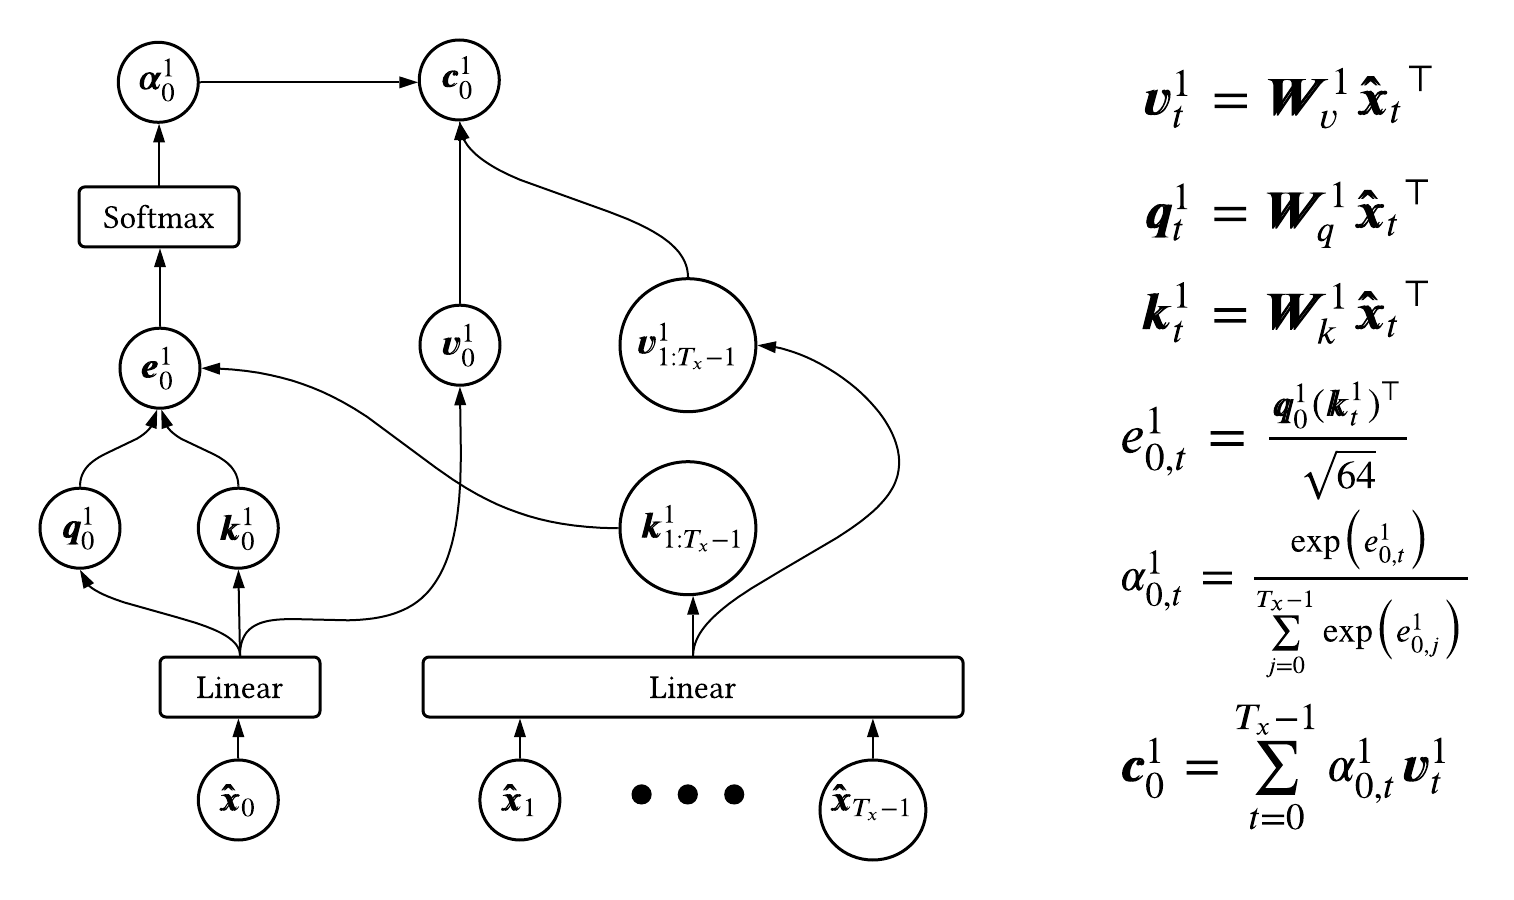
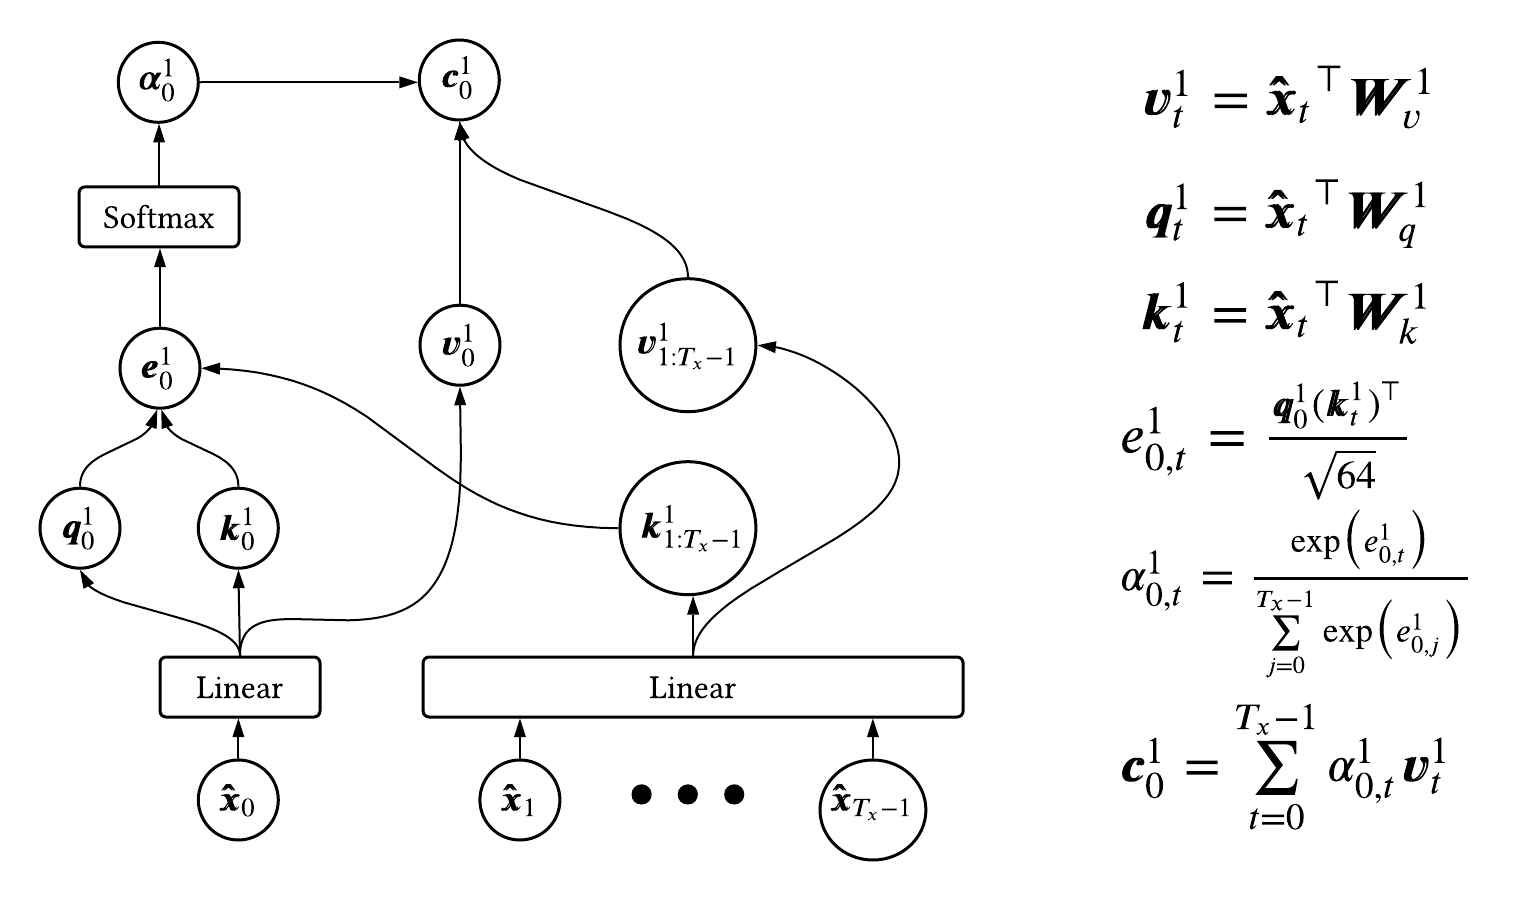
finished work on the self-attention portion in the transformer post

Changed region(s): [[0.8382, 0.1867, 0.9624, 0.28], [0.8382, 0.0622, 0.9624, 0.1556], [0.8382, 0.3111, 0.9624, 0.3733]]

diff --git a/TheTransformer.html b/TheTransformer.html
@@ -296,7 +296,6 @@
                         was the first of its kind to address traditional natural language processing problems, e.g. language models, machine translation, etc., while only using attention <b>not</b> in 
                         a seq2seq setting. <span class="figtext">Figure 7</span> highlights the network's architecture where in the coming sections we will open up each layer of The Transformer. 
                     <figure>
-                        <br>
                         <img class="fig" src="/images/transformer/transformer.png" width="50%" height="10%">
                         <br>
                         <figcaption class="figcaption">
@@ -379,16 +378,54 @@
                         denotes we are in the encoder, <i>t</i> is a given time step and <i>l</i> is a given layer of the encoder (assume <i>l</i> = 1 in the following example). We are going to use these three variables to arrive at a context vector,
                         <span class="math"> \(\pmb{c}_{x,t}^l\)</span>, which encodes a relationship between a given input token, <span class="math">\(x_t\)</span>, and the entire input sequence <span class="math">\(\pmb{x}\)</span>.
                         First, we will obtain the <b>keys, queries</b> and <b>values</b> by applying three separate linear projections on the positional embedded vector, <span class="math">\(\pmb{\hat{x}}_t\)</span>, using three 
-                        learnable matrices, <span class="math">\(\pmb{W}_{x,k}^{l}, \pmb{W}_{x,q}^{l} \text{ and } \pmb{W}_{x,v}^{l} \text{ where } \pmb{W}_{x,\{k, q, v\}}^{l} \in \mathbb{R}^{64 \times 512}\).
+                        learnable matrices, <span class="math">\(\pmb{W}_{x,k}^{l}, \pmb{W}_{x,q}^{l} \text{ and } \pmb{W}_{x,v}^{l} \text{ where } \pmb{W}_{x,\{k, q, v\}}^{l} \in \mathbb{R}^{512 \times 64}\).
                         Note, we will need to compute respective key, queries and values for each token in the input sequence in order to arrive at a given context vector.
-                        After obtaining all key, queries and values we are in a traditional attention setting where softmax attention weights, <span class="math">\(\pmb{\alpha}_{x,t}^l\)</span> are derived from a score computed between 
+                        After obtaining all key, queries and values we are in a traditional attention setting where softmax attention weights, <span class="math">\(\pmb{\alpha}_{x,t}^l\)</span>, are derived from a score computed between 
                         the <b>keys</b> and <b>queries</b>, i.e. <span class="math">\(\text{score} = f(\pmb{k}_{x,t}^l, \pmb{q}_{x,j}^l)\)</span>. Finally, we will arrive at a given context vector by computing the weighted average between
-                        the <b>softmax attention weights</b> and <b>values</b>. <span class="figtext">Figure 9</span> highlights the computational graph used to obtain the context vector at the 1st time step, <span class="math">\(\pmb{c}_{x,0}^1\)</span>.
+                        the <b>softmax attention weights</b> and <b>values</b>. <span class="figtext">Figure 9</span> highlights the computational graph used to obtain the context vector at the 1st time step in the 1st layer, <span class="math">\(\pmb{c}_{x,0}^1\)</span>.
                         <figure>
                             <br>
                             <img class="fig" src="/images/transformer/self-attention-one-time-step.png" width="80%" height="40%">
                             <figcaption class="figcaption">
-                                <span class="figtext">Fig. 9</span> An example of self-attention taken from <a class="papers" target="_blank" href="https://arxiv.org/pdf/1706.03762.pdf">Vaswani et al. 2017</a>.
+                                <span class="figtext">Fig. 9</span> Computational graph of self-attention at the first time step in the first layer of the Transformer encoder. Note, the subscript, <i>x</i>, which was 
+                                used in section 3.2.2 to denote encoder variables was omitted for brevity. 
+                            </figcaption>
+                            <br>
+                        </figure>
+                    </p>
+                    <p class="body">
+                        We notice the score function, <span class="math">\(\pmb{e}_{x,(t,j)}^l\)</span>, is simply a dot product between the query of concern,
+                        in this example <span class="math">\(\pmb{q}_{x,0}^1\)</span>, and a given key, <span class="math">\(\pmb{k}_{x,j}^1\)</span>, normalized 
+                        by the square root of the projection dimensionality, 64. Hopefully this example highlights self-attention is <b>identical</b> to traditional attention in seq2seq models, 
+                        where rather than computing a relationship between a given decoder hidden state and set of encoder hidden states, we are computing a relationship between 
+                        a given input token and set of all input tokens, using query, key and value projections.
+                    </p>
+                    <br>
+                    <h1 class="subhead">3.2.3 Self-Attention over an Entire Sequence</h1>
+                    <p class="body">
+                        One major advantage of the Transformer as opposed to seq2seq models is it computationally faster because it can compute context vectors for an entire 
+                        sequence in one go, using GPU optimized matrix multiplication. Let us define 
+                        <span class="math">\(\pmb{\hat{X}} = [\pmb{\hat{x}_0}^\top; ...; \pmb{\hat{x}_{T_x-1}}^\top]\)</span> which is just concatenating the sequence of positional 
+                        embeddings as row vectors where <span class="math">\(\pmb{\hat{X}} \in \mathbb{R}^{T_x-1\times 512}\)</span>. We can obtain the key, query and value matrices 
+                        by applying the linear transformation matrices to <span class="math">\(\pmb{\hat{X}}\)</span>, e.g., <span class="math">\(\pmb{Q}_x^1 = \pmb{\hat{X}}\pmb{W}_{x,q}^1\)</span>.
+                        Having the key, query and value matrices readily available the set of context vectors over the entire input sequence, <span class="math">\(\pmb{C}_x^1\)</span>, can be calculated
+                        as followed:
+                        <div class="formula">
+                            <br>
+                            $$
+                            \pmb{C}_x^1 = \text{softmax}\bigg(\frac{\pmb{Q}_x^1{\pmb{K}_x^1}^\top}{\sqrt{64}}\bigg)\pmb{V}_x^1
+                            $$
+                            <br>
+                        </div>
+                    </p>
+                    <p class="body">
+                        Furthermore, all operations used to calculate the context matrix are depicted in <span class="figtext">Figure 10</span>.
+                        <figure>
+                            <br>
+                            <img class="fig" src="/images/transformer/self-attention-entire-sequence.png" width="80%" height="40%">
+                            <figcaption class="figcaption">
+                                <span class="figtext">Fig. 10</span> All matrix operations used to obtain self-attention over an entire input sequence. Note, the subscript, <i>x</i>, which was 
+                                used in sections 3.2.2 and 3.2.3 to denote encoder variables was omitted for brevity. 
                             </figcaption>
                             <br>
                         </figure>

diff --git a/index.html b/index.html
@@ -69,7 +69,7 @@
     <h4 class="title">
       <a href="/TheTransformer.html">The Transformer</a>
     </h4>
-    INSERT IMAGE ???
+    <img class="img-fluid rounded" src=/images/transformer/self-attention-entire-sequence.png>
   </div>
 </article>
       <hr>
